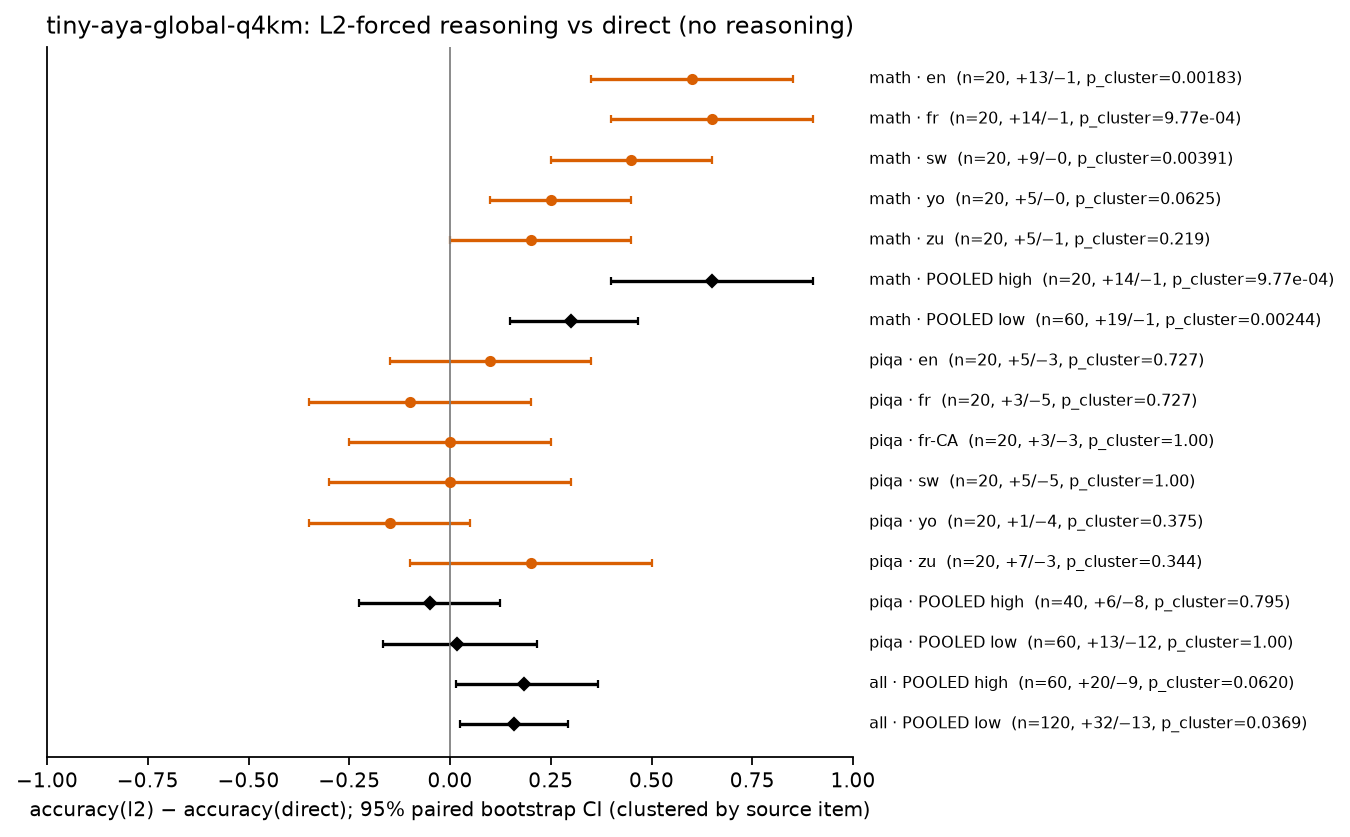
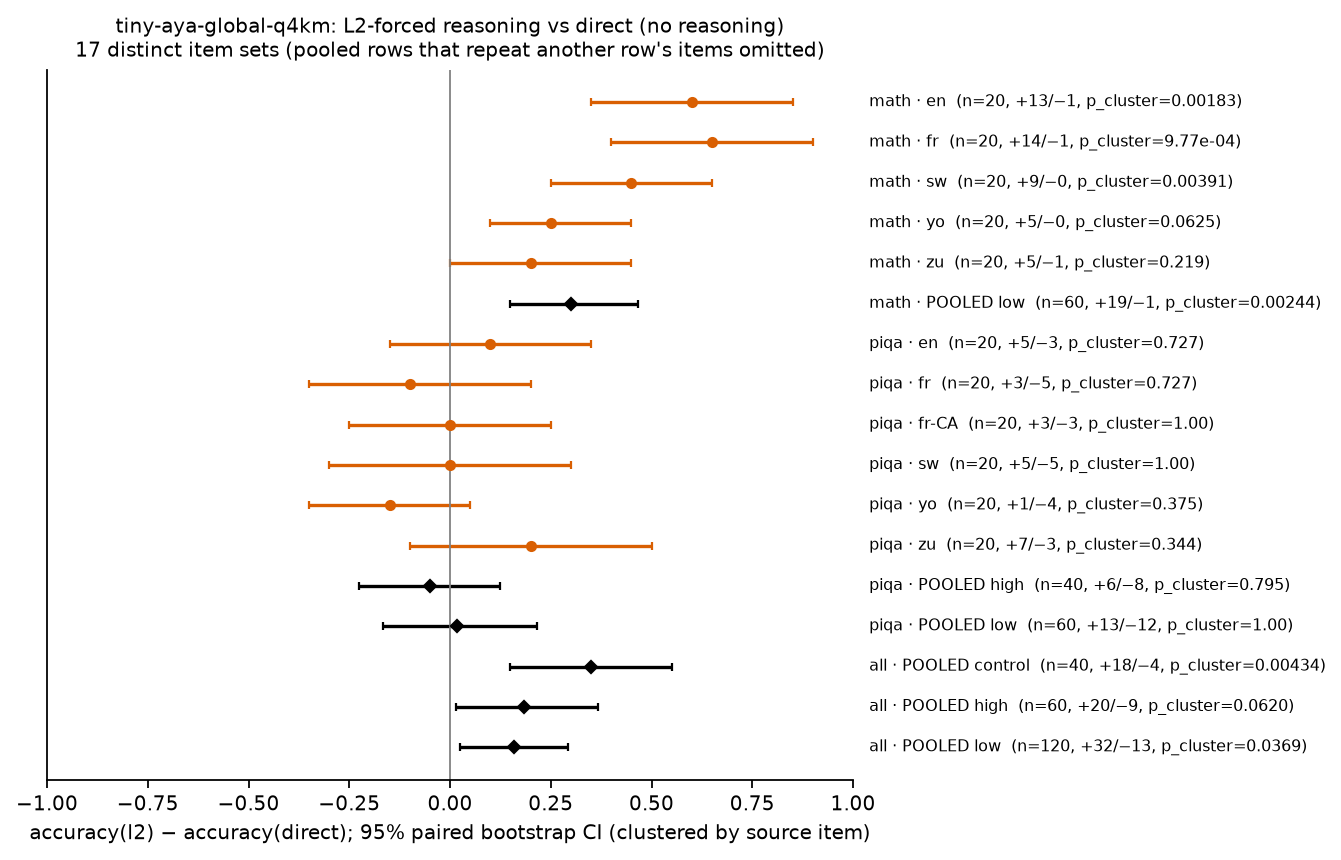
r2-n1: Figures 10/11 plot one row per distinct item set (drops math · POOLED high = math · fr, adds all · POOLED control); Figure 10 rows asserted equal to the 17-test Holm/BH family; regenerated twice, byte-identical

diff --git a/probe/figures.py b/probe/figures.py
@@ -136,12 +136,22 @@ def spearman(x, y):
 
 def fig_forest(pair, model, a, b, out, name):
     keys = [k for k in pair if k.startswith(f"{model}|{a}-{b}|")]
-    order = []
+    # One row per distinct item set (r2-n1): per-language cells first, then task pools, then
+    # cross-task pools; a pooled row whose items equal an earlier row's (e.g. math · POOLED high
+    # = math · fr) is dropped. For l2-en this is exactly the 17-test Holm/BH family.
+    cand = []
     for t in ["math", "piqa"]:
-        order += [f"{model}|{a}-{b}|{t}|{l}" for l in LANG_ORDER[t]]
-        order += [f"{model}|{a}-{b}|{t}|group:{g}" for g in ["high", "low"]]
-    order += [f"{model}|{a}-{b}|all|group:{g}" for g in ["high", "low"]]
-    order = [k for k in order if k in keys]
+        cand += [f"{model}|{a}-{b}|{t}|{l}" for l in LANG_ORDER[t]]
+        cand += [f"{model}|{a}-{b}|{t}|group:{g}" for g in ["control", "high", "low"]]
+    cand += [f"{model}|{a}-{b}|all|group:{g}" for g in ["control", "high", "low"]]
+    order, seen = [], set()
+    for k in cand:
+        if k in keys and pair[k]["item_set_sha"] not in seen:
+            seen.add(pair[k]["item_set_sha"])
+            order.append(k)
+    fam = pair.get(f"_family_{a}-{b}")
+    if fam:
+        assert set(order) == set(fam["tests"]), "forest rows differ from the multiplicity family"
     fig, ax = plt.subplots(figsize=(6.5, 0.28 * len(order) + 1))
     for i, k in enumerate(order[::-1]):
         v = pair[k]
@@ -156,7 +166,8 @@ def fig_forest(pair, model, a, b, out, name):
     ax.set_yticks([])
     ax.set_xlim(-1, 1)
     ax.set_xlabel(f"accuracy({a}) − accuracy({b}); 95% paired bootstrap CI (clustered by source item)")
-    ax.set_title(f"{model}: {ARM_NAME[a]} vs {ARM_NAME[b]}")
+    ax.set_title(f"{model}: {ARM_NAME[a]} vs {ARM_NAME[b]}\n"
+                 f"{len(order)} distinct item sets (pooled rows that repeat another row's items omitted)", fontsize=9)
     save(fig, out, name)
 
 

diff --git a/README.md b/README.md
@@ -141,11 +141,11 @@ Swahili, the language with the largest accuracy drop (−20 pp), runs the *other
 
 ### 5. Paired differences
 
-![Forest plot of accuracy(L2-forced) minus accuracy(En-forced) per task × language and pooled by resource group, with 95% paired bootstrap intervals clustered by source item, and beside each row the n, discordant counts, cluster sign-flip p and Holm-adjusted p. No row is significant after correction.](docs/figures/paired_l2_vs_en.png)
+![Forest plot of accuracy(L2-forced) minus accuracy(En-forced), one row for each of the 17 distinct item sets in the Holm/BH family: 11 task × language cells, then pooled rows (math low; PIQA high and low; both tasks control, high and low). Pooled rows that repeat another row's items, such as math · POOLED high (= math · fr), are omitted. Each row has a 95% paired bootstrap interval clustered by source item, plus the n, discordant counts, cluster sign-flip p and Holm-adjusted p. No row is significant after correction; the smallest cluster p is 0.0938 for math · POOLED low.](docs/figures/paired_l2_vs_en.png)
 
 **Figure 10.** *Data: [`results/paired.json`](results/paired.json) · script: [`probe/stats.py`](probe/stats.py), [`probe/figures.py`](probe/figures.py) (`fig_forest`).*
 
-![Forest plot of accuracy(L2-forced) minus accuracy(direct) per task × language: large positive gains on math in every language, smaller and noisier on PIQA.](docs/figures/paired_l2_vs_direct.png)
+![Forest plot of accuracy(L2-forced) minus accuracy(direct) per task × language and per distinct pooled group (duplicate pooled rows omitted, as in Figure 10): large positive gains on math in every language, smaller and noisier on PIQA.](docs/figures/paired_l2_vs_direct.png)
 
 **Figure 11.** *Data: [`results/paired.json`](results/paired.json) · script: [`probe/figures.py`](probe/figures.py) (`fig_forest`).*
 
